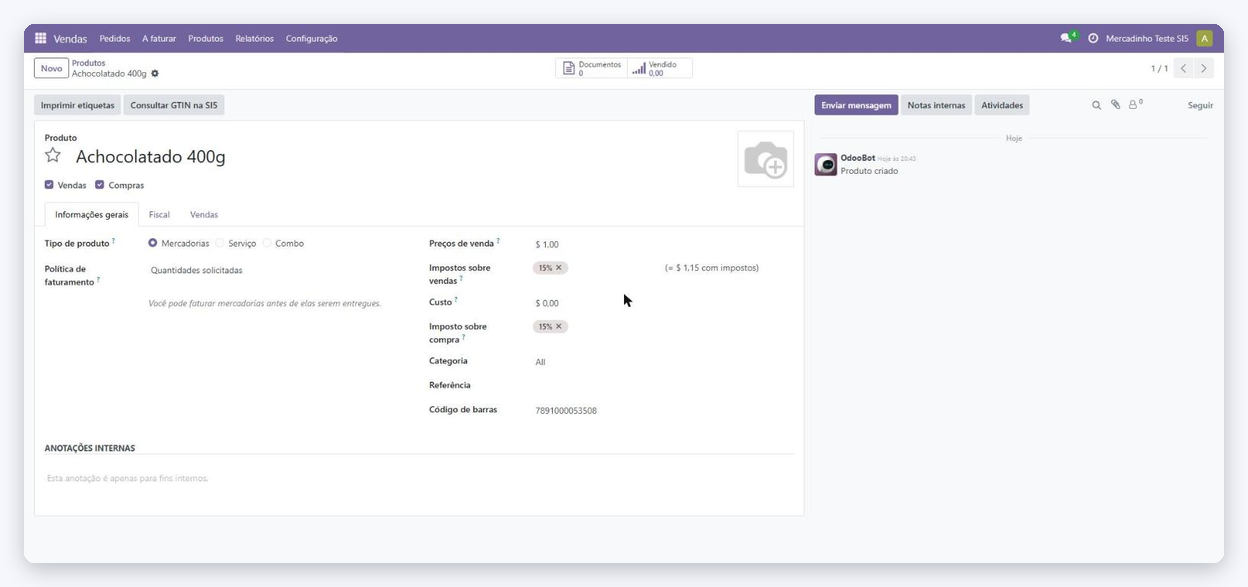
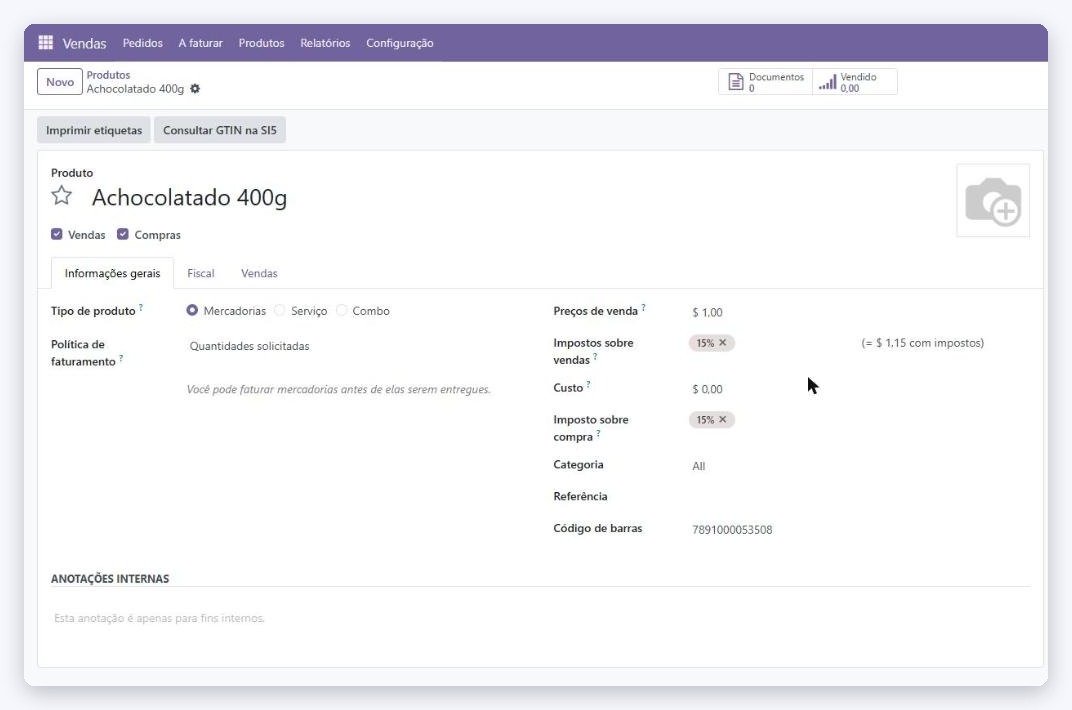
Store page: new layout (hero, cards, steps) and larger cropped screenshots

diff --git a/product_si5_gtin/static/description/index.html b/product_si5_gtin/static/description/index.html
@@ -1,130 +1,128 @@
-<section class="oe_container">
-    <div class="oe_row oe_spaced">
-        <div class="oe_span12">
-            <h2 class="oe_slogan" style="color:#081128;">Product GTIN lookup with SI5 Global</h2>
-            <h3 class="oe_slogan">Type the barcode, review the suggestions, apply only what you want</h3>
-            <p class="oe_mt32" style="font-size:17px;line-height:1.6;text-align:center;max-width:820px;margin:0 auto;">
-                Fill product name, picture, gross weight and Brazilian fiscal codes (NCM / CEST) from
-                <a href="https://global.si5.com.br" target="_blank">SI5 Global</a>, a catalogue with
-                <b>millions of GTINs</b> from Brazilian retail. Nothing is written without your review.
-            </p>
-        </div>
-    </div>
-</section>
+<!-- Odoo Apps Store page: inline styles only (the store strips <style> blocks) -->
+<div style="font-family:-apple-system,'Segoe UI',Roboto,'Helvetica Neue',Arial,sans-serif;color:#1d1d1f;background:#ffffff;max-width:1140px;margin:0 auto;padding:8px;">
 
-<section class="oe_container">
-    <div class="oe_row oe_spaced">
-        <div class="oe_span12">
-            <h2 class="oe_slogan" style="color:#00767b;">1. One click on the product</h2>
-            <p style="text-align:center;font-size:16px;">Open a product with a barcode and click <b>Look up GTIN with SI5</b>.</p>
-            <div class="oe_demo oe_picture oe_screenshot">
-                <img src="screenshot_1_product.png" style="max-width:100%;" alt="Product form with the SI5 button"/>
+    <!-- HERO -->
+    <div style="background:linear-gradient(120deg,#081128 0%,#0b2a8f 55%,#1048ff 100%);border-radius:24px;padding:56px 48px;color:#fff;overflow:hidden;">
+        <div style="display:flex;flex-wrap:wrap;align-items:center;gap:40px;">
+            <div style="flex:1 1 420px;min-width:280px;">
+                <img src="icon.png" alt="SI5" style="width:76px;height:76px;border-radius:18px;box-shadow:0 8px 24px rgba(0,0,0,.35);"/>
+                <h1 style="font-size:40px;line-height:1.1;font-weight:800;margin:22px 0 14px;letter-spacing:-.02em;color:#fff;">
+                    Fill products from the barcode
+                </h1>
+                <p style="font-size:19px;line-height:1.55;margin:0 0 26px;color:#dbe4ff;">
+                    Name, picture, weight, <b style="color:#fff;">NCM and CEST</b> from
+                    <b style="color:#fff;">SI5 Global</b>, a catalogue with millions of GTINs from Brazilian retail.
+                    Every suggestion is <b style="color:#fff;">reviewed before it is saved</b>.
+                </p>
+                <div style="display:flex;flex-wrap:wrap;gap:12px;">
+                    <a href="https://global.si5.com.br" target="_blank" style="background:#fff;color:#081128;text-decoration:none;font-weight:700;padding:13px 24px;border-radius:999px;font-size:16px;">Create free account</a>
+                    <a href="https://global.si5.com.br/precos/api" target="_blank" style="background:rgba(255,255,255,.12);color:#fff;text-decoration:none;font-weight:600;padding:13px 24px;border-radius:999px;font-size:16px;border:1px solid rgba(255,255,255,.35);">API plans</a>
+                </div>
+            </div>
+            <div style="flex:1 1 420px;min-width:280px;text-align:center;">
+                <img src="screenshot_2_review.png" alt="Review wizard" style="max-width:100%;border-radius:16px;box-shadow:0 24px 60px rgba(0,0,0,.45);"/>
             </div>
         </div>
     </div>
-</section>
 
-<section class="oe_container">
-    <div class="oe_row oe_spaced">
-        <div class="oe_span12">
-            <h2 class="oe_slogan" style="color:#00767b;">2. Review current × suggested</h2>
-            <p style="text-align:center;font-size:16px;max-width:820px;margin:0 auto;">
-                Current data on the left, suggestions on the right. <b>Every checkbox starts unchecked.</b>
-                The picture is downloaded only when you confirm, validated (format, size, dimensions) and
-                shown before being applied.
-            </p>
-            <div class="oe_demo oe_picture oe_screenshot">
-                <img src="screenshot_2_review.png" style="max-width:100%;" alt="Review wizard"/>
-            </div>
+    <!-- 3 HIGHLIGHTS -->
+    <div style="display:flex;flex-wrap:wrap;gap:20px;margin:36px 0 12px;">
+        <div style="flex:1 1 300px;background:#fff;border:1px solid #e5eaf3;border-radius:20px;padding:26px 26px 22px;box-shadow:0 10px 30px -18px rgba(8,17,40,.25);">
+            <div style="width:44px;height:44px;border-radius:12px;background:#e8eeff;color:#1048ff;font-size:22px;font-weight:800;display:flex;align-items:center;justify-content:center;">1</div>
+            <h3 style="font-size:20px;margin:16px 0 8px;color:#081128;">One click</h3>
+            <p style="margin:0;font-size:15.5px;line-height:1.6;color:#4a5568;">Button <b>Look up GTIN with SI5</b> on the product form. Works with EAN-8, EAN-13, UPC-A and GTIN-14.</p>
+        </div>
+        <div style="flex:1 1 300px;background:#fff;border:1px solid #e5eaf3;border-radius:20px;padding:26px 26px 22px;box-shadow:0 10px 30px -18px rgba(8,17,40,.25);">
+            <div style="width:44px;height:44px;border-radius:12px;background:#e0f3f3;color:#00767b;font-size:22px;font-weight:800;display:flex;align-items:center;justify-content:center;">2</div>
+            <h3 style="font-size:20px;margin:16px 0 8px;color:#081128;">You decide</h3>
+            <p style="margin:0;font-size:15.5px;line-height:1.6;color:#4a5568;">Current × suggested, side by side. <b>Nothing comes pre-selected</b>: tick only what you want to replace.</p>
+        </div>
+        <div style="flex:1 1 300px;background:#fff;border:1px solid #e5eaf3;border-radius:20px;padding:26px 26px 22px;box-shadow:0 10px 30px -18px rgba(8,17,40,.25);">
+            <div style="width:44px;height:44px;border-radius:12px;background:#fff1e0;color:#b45309;font-size:22px;font-weight:800;display:flex;align-items:center;justify-content:center;">3</div>
+            <h3 style="font-size:20px;margin:16px 0 8px;color:#081128;">Brazilian fiscal ready</h3>
+            <p style="margin:0;font-size:15.5px;line-height:1.6;color:#4a5568;">With OCA <code>l10n_br_fiscal</code>, the review also offers the matching <b>NCM and CEST</b> records.</p>
         </div>
     </div>
-</section>
 
-<section class="oe_container">
-    <div class="oe_row oe_spaced">
-        <div class="oe_span12">
-            <h2 class="oe_slogan" style="color:#00767b;">3. NCM and CEST for the Brazilian localization</h2>
-            <p style="text-align:center;font-size:16px;max-width:820px;margin:0 auto;">
-                With the companion module <b>product_si5_gtin_l10n_br_fiscal</b> (installed automatically with
-                the OCA <code>l10n_br_fiscal</code>), the review also offers the NCM and CEST records from the
-                fiscal tables, only on exact matches and only CEST linked to the NCM.
-                Fiscal classification stays the responsibility of your company and accountant.
-            </p>
-            <div class="oe_demo oe_picture oe_screenshot">
-                <img src="screenshot_3_review_fiscal.png" style="max-width:100%;" alt="NCM and CEST suggestions"/>
-            </div>
+    <!-- STEP: PRODUCT -->
+    <div style="display:flex;flex-wrap:wrap;align-items:center;gap:36px;margin:56px 0;">
+        <div style="flex:1 1 320px;min-width:260px;">
+            <span style="display:inline-block;background:#e8eeff;color:#1048ff;font-weight:700;font-size:13px;letter-spacing:.06em;text-transform:uppercase;padding:6px 12px;border-radius:999px;">Step 1</span>
+            <h2 style="font-size:28px;line-height:1.2;margin:14px 0 10px;color:#081128;">Start from the barcode</h2>
+            <p style="font-size:16.5px;line-height:1.65;color:#4a5568;margin:0;">Create the product with its barcode, or open an existing one, and click the button. The lookup only runs when you ask: never on import, onchange or in bulk.</p>
+        </div>
+        <div style="flex:2 1 520px;min-width:280px;">
+            <img src="screenshot_1_product.png" alt="Product form with the SI5 button" style="width:100%;border-radius:14px;border:1px solid #e5eaf3;box-shadow:0 18px 40px -20px rgba(8,17,40,.35);"/>
         </div>
     </div>
-</section>
 
-<section class="oe_container">
-    <div class="oe_row oe_spaced">
-        <div class="oe_span12">
-            <h2 class="oe_slogan" style="color:#00767b;">4. Done</h2>
-            <div class="oe_demo oe_picture oe_screenshot">
-                <img src="screenshot_4_result.png" style="max-width:100%;" alt="Product filled"/>
-            </div>
-            <div class="oe_demo oe_picture oe_screenshot oe_mt32">
-                <img src="screenshot_5_fiscal_tab.png" style="max-width:100%;" alt="Fiscal tab with NCM and CEST"/>
-            </div>
+    <!-- STEP: REVIEW -->
+    <div style="display:flex;flex-wrap:wrap-reverse;align-items:center;gap:36px;margin:56px 0;">
+        <div style="flex:2 1 520px;min-width:280px;">
+            <img src="screenshot_3_review_fiscal.png" alt="Picture preview, NCM and CEST" style="width:100%;border-radius:14px;border:1px solid #e5eaf3;box-shadow:0 18px 40px -20px rgba(8,17,40,.35);"/>
+        </div>
+        <div style="flex:1 1 320px;min-width:260px;">
+            <span style="display:inline-block;background:#e0f3f3;color:#00767b;font-weight:700;font-size:13px;letter-spacing:.06em;text-transform:uppercase;padding:6px 12px;border-radius:999px;">Step 2</span>
+            <h2 style="font-size:28px;line-height:1.2;margin:14px 0 10px;color:#081128;">Review picture and fiscal codes</h2>
+            <p style="font-size:16.5px;line-height:1.65;color:#4a5568;margin:0 0 12px;">The picture is downloaded only after you confirm, validated (format, size, dimensions) and previewed. The bytes you saw are the bytes applied.</p>
+            <p style="font-size:16.5px;line-height:1.65;color:#4a5568;margin:0;">NCM and CEST are offered only on exact matches in the fiscal tables, and the CEST only when it belongs to the NCM. Changes to shared data need an extra confirmation.</p>
         </div>
     </div>
-</section>
 
-<section class="oe_container" style="background:#f5f7fc;">
-    <div class="oe_row oe_spaced">
-        <div class="oe_span6">
-            <h3 style="color:#081128;">Features</h3>
-            <ul style="font-size:15px;line-height:1.8;">
-                <li>Name, internal note (brand, category, source), gross weight and picture</li>
-                <li>WebP pictures converted for Odoo thumbnails and PDF reports</li>
-                <li>Single-variant products get the template picture; multi-variant keeps it on the variant</li>
-                <li>Extra confirmation for data shared by variants / companies</li>
-                <li>UPC-A (12 digits), EAN-8/13, GTIN-14; restricted prefixes rejected</li>
-                <li>One token per company in <i>Settings › SI5 Global</i> (admins only)</li>
-                <li>Hardened network client: fixed hosts, TLS, size limits, no secrets in errors or logs</li>
+    <!-- STEP: RESULT -->
+    <div style="display:flex;flex-wrap:wrap;align-items:center;gap:36px;margin:56px 0;">
+        <div style="flex:1 1 320px;min-width:260px;">
+            <span style="display:inline-block;background:#fff1e0;color:#b45309;font-weight:700;font-size:13px;letter-spacing:.06em;text-transform:uppercase;padding:6px 12px;border-radius:999px;">Step 3</span>
+            <h2 style="font-size:28px;line-height:1.2;margin:14px 0 10px;color:#081128;">Product ready to sell</h2>
+            <p style="font-size:16.5px;line-height:1.65;color:#4a5568;margin:0;">Name, picture, weight, internal note with brand and category, NCM and CEST, in seconds. WebP pictures are converted so Odoo thumbnails and PDF reports work.</p>
+        </div>
+        <div style="flex:2 1 520px;min-width:280px;">
+            <img src="screenshot_4_result.png" alt="Product filled" style="width:100%;border-radius:14px;border:1px solid #e5eaf3;box-shadow:0 18px 40px -20px rgba(8,17,40,.35);"/>
+            <img src="screenshot_5_fiscal_tab.png" alt="Fiscal tab with NCM and CEST" style="width:100%;border-radius:14px;border:1px solid #e5eaf3;box-shadow:0 18px 40px -20px rgba(8,17,40,.35);margin-top:18px;"/>
+        </div>
+    </div>
+
+    <!-- FEATURES + SETUP -->
+    <div style="display:flex;flex-wrap:wrap;gap:20px;margin:24px 0;">
+        <div style="flex:1 1 440px;background:#f5f7fc;border-radius:20px;padding:30px;">
+            <h3 style="font-size:22px;margin:0 0 14px;color:#081128;">Features</h3>
+            <ul style="margin:0;padding-left:20px;font-size:15.5px;line-height:1.9;color:#2d3748;">
+                <li>Name, internal note (brand, category, source), gross weight, picture</li>
+                <li>NCM / CEST for <code>l10n_br_fiscal</code> (companion module)</li>
+                <li>Template picture for single-variant products; variant picture otherwise</li>
+                <li>Restricted-circulation prefixes rejected; check digit validated</li>
+                <li>One token per company, visible to administrators only</li>
+                <li>Hardened client: fixed hosts, TLS, size limits, no secrets in logs</li>
                 <li>English and Brazilian Portuguese</li>
             </ul>
         </div>
-        <div class="oe_span6">
-            <h3 style="color:#081128;">Configuration</h3>
-            <ol style="font-size:15px;line-height:1.8;">
-                <li>Create a free account at <a href="https://global.si5.com.br" target="_blank">global.si5.com.br</a></li>
-                <li>Create an API token in <a href="https://global.si5.com.br/conta" target="_blank">Minha conta</a></li>
+        <div style="flex:1 1 440px;background:#081128;color:#fff;border-radius:20px;padding:30px;">
+            <h3 style="font-size:22px;margin:0 0 14px;color:#fff;">Set up in 3 steps</h3>
+            <ol style="margin:0 0 18px;padding-left:22px;font-size:15.5px;line-height:1.9;color:#dbe4ff;">
+                <li>Create a free account at <a href="https://global.si5.com.br" target="_blank" style="color:#7fe3e6;">global.si5.com.br</a></li>
+                <li>Create an API token in <a href="https://global.si5.com.br/conta" target="_blank" style="color:#7fe3e6;">Minha conta</a></li>
                 <li>Paste it in <i>Settings › General Settings › SI5 Global</i></li>
             </ol>
-            <p style="font-size:15px;">
-                The free plan has a daily quota. Paid plans add more queries and the full fiscal sheet
-                (IBPT, IPI, PIS/COFINS, ST, IBS/CBS by state):
-                <a href="https://global.si5.com.br/precos/api" target="_blank">see plans</a>.
-            </p>
+            <p style="margin:0;font-size:15px;line-height:1.6;color:#b9c6ef;">Free plan with a daily quota. Paid plans add more queries and the full fiscal sheet (IBPT, IPI, PIS/COFINS, ST, IBS/CBS by state).</p>
+            <a href="https://global.si5.com.br/precos/api" target="_blank" style="display:inline-block;margin-top:18px;background:#1048ff;color:#fff;text-decoration:none;font-weight:700;padding:12px 22px;border-radius:999px;">See API plans</a>
         </div>
     </div>
-</section>
 
-<section class="oe_container">
-    <div class="oe_row oe_spaced">
-        <div class="oe_span12">
-            <h2 class="oe_slogan" style="color:#081128;">Em português</h2>
-            <p style="font-size:16px;line-height:1.7;max-width:860px;margin:0 auto;">
-                Consulte o produto pelo código de barras no <b>SI5 Global</b> e preencha nome, foto, peso,
-                NCM e CEST com <b>revisão antes de gravar</b>: nada vem marcado, você escolhe campo a campo.
-                Com a localização brasileira da OCA (<code>l10n_br_fiscal</code>), o módulo complementar oferece
-                o NCM e o CEST das tabelas fiscais. Crie sua conta grátis em
-                <a href="https://global.si5.com.br" target="_blank">global.si5.com.br</a>, gere o token em
-                <i>Minha conta</i> e cole em <i>Configurações › SI5 Global</i>.
-            </p>
-        </div>
+    <!-- PORTUGUES -->
+    <div style="border:1px solid #e5eaf3;border-radius:20px;padding:30px;margin:36px 0 24px;">
+        <h3 style="font-size:22px;margin:0 0 10px;color:#081128;">🇧🇷 Em português</h3>
+        <p style="margin:0;font-size:16px;line-height:1.7;color:#2d3748;">
+            Consulte o produto pelo código de barras no <b>SI5 Global</b> e preencha nome, foto, peso, <b>NCM e CEST</b>
+            com revisão antes de gravar: nada vem marcado, você escolhe campo a campo. Com a localização brasileira da OCA
+            (<code>l10n_br_fiscal</code>), o módulo complementar oferece o NCM e o CEST das tabelas fiscais.
+            Crie sua conta grátis em <a href="https://global.si5.com.br" target="_blank" style="color:#1048ff;">global.si5.com.br</a>,
+            gere o token em <i>Minha conta</i> e cole em <i>Configurações › SI5 Global</i>.
+        </p>
     </div>
-</section>
 
-<section class="oe_container">
-    <div class="oe_row oe_spaced">
-        <div class="oe_span12" style="text-align:center;">
-            <p style="font-size:15px;">
-                Source code (AGPL-3): <a href="https://github.com/dhoneshost/odoo-si5-gtin" target="_blank">github.com/dhoneshost/odoo-si5-gtin</a>
-                · Support: <a href="mailto:dev@si5.com.br">dev@si5.com.br</a>
-            </p>
-        </div>
-    </div>
-</section>
+    <!-- FOOTER -->
+    <p style="text-align:center;font-size:14.5px;color:#647087;margin:8px 0 24px;">
+        Open source (AGPL-3): <a href="https://github.com/dhoneshost/odoo-si5-gtin" target="_blank" style="color:#1048ff;">github.com/dhoneshost/odoo-si5-gtin</a>
+        &nbsp;·&nbsp; Support: <a href="mailto:dev@si5.com.br" style="color:#1048ff;">dev@si5.com.br</a>
+    </p>
+</div>

diff --git a/product_si5_gtin_l10n_br_fiscal/static/description/index.html b/product_si5_gtin_l10n_br_fiscal/static/description/index.html
@@ -1,27 +1,47 @@
-<section class="oe_container">
-    <div class="oe_row oe_spaced">
-        <div class="oe_span12">
-            <h2 class="oe_slogan" style="color:#081128;">SI5 GTIN lookup · Brazilian fiscal data</h2>
-            <h3 class="oe_slogan">NCM and CEST suggestions for the OCA <code>l10n_br_fiscal</code></h3>
-            <p style="font-size:16px;line-height:1.6;text-align:center;max-width:820px;margin:0 auto;">
-                Companion of <b>product_si5_gtin</b>, installed automatically when <code>l10n_br_fiscal</code> is
-                present. The SI5 review also shows the NCM and CEST records found in the fiscal tables and lets
-                the user apply them to the product template, one checkbox each, never by default.
-                Codes are only offered on exact matches, and the CEST only when it belongs to the NCM the
-                product will have.
-            </p>
-            <div class="oe_demo oe_picture oe_screenshot">
-                <img src="screenshot_review_fiscal.png" style="max-width:100%;" alt="NCM and CEST suggestions"/>
+<!-- Odoo Apps Store page: inline styles only (the store strips <style> blocks) -->
+<div style="font-family:-apple-system,'Segoe UI',Roboto,'Helvetica Neue',Arial,sans-serif;color:#1d1d1f;background:#ffffff;max-width:1140px;margin:0 auto;padding:8px;">
+
+    <div style="background:linear-gradient(120deg,#081128 0%,#0b4f63 55%,#00767b 100%);border-radius:24px;padding:48px;color:#fff;">
+        <div style="display:flex;flex-wrap:wrap;align-items:center;gap:40px;">
+            <div style="flex:1 1 400px;min-width:280px;">
+                <img src="icon.png" alt="SI5" style="width:72px;height:72px;border-radius:18px;box-shadow:0 8px 24px rgba(0,0,0,.35);"/>
+                <h1 style="font-size:36px;line-height:1.12;font-weight:800;margin:20px 0 12px;letter-spacing:-.02em;color:#fff;">NCM and CEST from the barcode</h1>
+                <p style="font-size:18px;line-height:1.55;margin:0;color:#d4f1f1;">
+                    Companion of <b style="color:#fff;">Product SI5 GTIN lookup</b> for the OCA Brazilian fiscal engine
+                    (<code style="color:#fff;">l10n_br_fiscal</code>). Installed automatically when both are present.
+                </p>
             </div>
-            <p style="font-size:16px;line-height:1.6;text-align:center;max-width:820px;margin:24px auto 0;">
-                <b>Em português:</b> sugere o NCM e o CEST das tabelas fiscais da localização brasileira da OCA,
-                aplicados no produto só depois da sua revisão. A classificação fiscal continua sendo
-                responsabilidade da empresa e do contador.
-            </p>
-            <p style="text-align:center;font-size:15px;">
-                <a href="https://github.com/dhoneshost/odoo-si5-gtin" target="_blank">github.com/dhoneshost/odoo-si5-gtin</a>
-                · <a href="mailto:dev@si5.com.br">dev@si5.com.br</a>
-            </p>
+            <div style="flex:1 1 420px;min-width:280px;text-align:center;">
+                <img src="screenshot_review_fiscal.png" alt="NCM and CEST suggestions" style="max-width:100%;border-radius:16px;box-shadow:0 24px 60px rgba(0,0,0,.45);"/>
+            </div>
         </div>
     </div>
-</section>
+
+    <div style="display:flex;flex-wrap:wrap;gap:20px;margin:32px 0;">
+        <div style="flex:1 1 300px;border:1px solid #e5eaf3;border-radius:20px;padding:26px;box-shadow:0 10px 30px -18px rgba(8,17,40,.25);">
+            <h3 style="font-size:19px;margin:0 0 8px;color:#081128;">Exact matches only</h3>
+            <p style="margin:0;font-size:15.5px;line-height:1.6;color:#4a5568;">An NCM or CEST is offered only when the exact code exists in <code>l10n_br_fiscal.ncm</code> / <code>l10n_br_fiscal.cest</code>. No guessing.</p>
+        </div>
+        <div style="flex:1 1 300px;border:1px solid #e5eaf3;border-radius:20px;padding:26px;box-shadow:0 10px 30px -18px rgba(8,17,40,.25);">
+            <h3 style="font-size:19px;margin:0 0 8px;color:#081128;">CEST follows the NCM</h3>
+            <p style="margin:0;font-size:15.5px;line-height:1.6;color:#4a5568;">The CEST is suggested only when it belongs to the NCM the product will have, the same rule as the fiscal engine.</p>
+        </div>
+        <div style="flex:1 1 300px;border:1px solid #e5eaf3;border-radius:20px;padding:26px;box-shadow:0 10px 30px -18px rgba(8,17,40,.25);">
+            <h3 style="font-size:19px;margin:0 0 8px;color:#081128;">You confirm</h3>
+            <p style="margin:0;font-size:15.5px;line-height:1.6;color:#4a5568;">One checkbox each, never pre-selected, plus confirmation because NCM/CEST live on the product template.</p>
+        </div>
+    </div>
+
+    <div style="border:1px solid #e5eaf3;border-radius:20px;padding:28px;margin:0 0 24px;">
+        <h3 style="font-size:21px;margin:0 0 10px;color:#081128;">🇧🇷 Em português</h3>
+        <p style="margin:0;font-size:16px;line-height:1.7;color:#2d3748;">
+            Sugere o NCM e o CEST das tabelas fiscais da localização brasileira da OCA, aplicados no produto só depois da
+            sua revisão. A classificação fiscal continua sendo responsabilidade da empresa e do contador.
+        </p>
+    </div>
+
+    <p style="text-align:center;font-size:14.5px;color:#647087;margin:8px 0 24px;">
+        <a href="https://github.com/dhoneshost/odoo-si5-gtin" target="_blank" style="color:#00767b;">github.com/dhoneshost/odoo-si5-gtin</a>
+        &nbsp;·&nbsp; <a href="mailto:dev@si5.com.br" style="color:#00767b;">dev@si5.com.br</a>
+    </p>
+</div>
